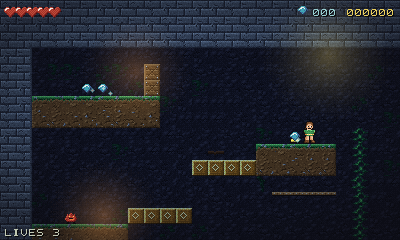
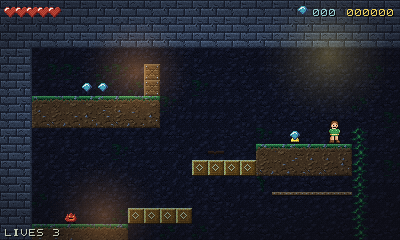
Fix vines that could be climbed but not stepped off
Reported from play a second time: ROOT HOLLOW's upper platform was still
unreachable after the previous fix.

The vine did reach the upper screen. But column 21 was empty at every row,
so the nearest ledge was one column away -- stepping off dropped you into
the gap and the only way across was a blind mid-air jump from a ladder.
tools/reachability.py passed it because it allows jumps up to three tiles
across. Reachable on paper is not the same as playable, and my model did
not know the difference.

Fixed by extending both the ledge (cols 16-21) and the wood platform
(cols 17-21) to sit flush against the vine, so you walk off it. Verified
with no jump pressed: the player leaves the vine at row 7 and lands on the
ledge at tile (20,8), on_floor=true.

Added the rule that was missing: every climbable column must have somewhere
to step off within three tiles of its top. Confirmed it fires on the exact
geometry reported (ladder-with-no-exit at 22,8), and it immediately found
the same defect in two levels I had not touched:

  SKY BRANCH          the vine ended INSIDE the ledge above it, so the
                      climb finished in solid rock
  HEART OF THE GROVE  the vine stopped in mid-air below the upper ledge,
                      and was drawn before it, so it had no exit at all

Both now run through to a standing surface.

iOS bundle regenerated; the content guard confirms the new geometry is in
the .pck. 129 tests / 8489 assertions, 268 integration checks, validate
[…]

diff --git a/tools/reachability.py b/tools/reachability.py
@@ -176,6 +176,34 @@ def reachable(lv, start_xy, start_form="human"):
     return seen
 
 
+def ladder_exits(lv):
+    """Every climbable column needs somewhere to step OFF, next to the ladder
+    itself. A ladder whose only exit is a jump across a gap is reachable on
+    paper and miserable in play -- which is exactly how ROOT HOLLOW's vine
+    shipped: the nearest ledge was one empty column away, so you had to leave
+    the vine in mid-air and cross a gap blind.
+
+    Returns a list of (col, top_row) for ladders with no adjacent exit near the
+    top, where the climb actually ends."""
+    bad = []
+    cols = {}
+    for y in range(lv.h):
+        for x in range(lv.w):
+            if lv.ladder(x, y):
+                cols.setdefault(x, []).append(y)
+    for x, ys in cols.items():
+        top = min(ys)
+        # within three tiles of the top, is there anything to step onto?
+        ok = False
+        for y in range(top, min(top + 3, lv.h)):
+            for dx in (-1, 1):
+                if lv.standable(x + dx, y):
+                    ok = True
+        if not ok:
+            bad.append((x, top))
+    return bad
+
+
 MUST_REACH = {"exit", "boss_exit", "key_yellow", "key_red", "key_cyan",
               "pad_frog", "pad_fish", "pad_bird", "pad_human",
               "switch_a", "switch_b", "door_yellow", "door_red", "door_cyan"}
@@ -203,6 +231,8 @@ def main():
             s = (s[0], s[1] + 1)
         seen = reachable(lv, s)
         problems = []
+        for x, top in ladder_exits(lv):
+            problems.append(("ladder-with-no-exit", (x, top)))
         for e in d["entities"]:
             if e["type"] not in MUST_REACH:
                 continue

diff --git a/tools/build_levels.py b/tools/build_levels.py
@@ -153,8 +153,9 @@ def jungle_2():
     g.ground(2, 14, 6, depth=2)
     g.rect(8, 13, 4, 1, "A")                        # solid while group 1 is ON
     g.rect(12, 10, 4, 1, "a")                       # solid while group 1 is OFF
-    g.ground(16, 9, 5, depth=2)
-    g.platform(17, 12, 4)               # moved off col 22: it was severing the vine
+    g.ground(16, 9, 6, depth=2)          # reaches col 21, flush with the vine
+    g.platform(17, 12, 5)               # cols 17-21: flush with the vine, so you
+                                        # step off it rather than jumping a gap
     g.ground(2, 6, 8, depth=2)
     g.crates(9, 5, 2, vertical=True)
 
@@ -307,7 +308,8 @@ def jungle_4():
 
     # ---- and a soft landing back on solid ground
     g.ground(41, 26, 7)
-    g.vine(44, 9, 17)
+    g.vine(44, 7, 19)                   # through the ledge, so the climb
+                                        # ends level with somewhere to stand
     g.platform(20, 16, 3)
     g.platform(26, 19, 3)
     g.platform(33, 22, 3)
@@ -349,7 +351,6 @@ def jungle_5():
     g.ground(17, 26, 7)
     g.platform(11, 20, 4)
     g.platform(4, 21, 4)
-    g.vine(21, 15, 12)
 
     # ---- screen A: the canopy walk east
     g.ground(1, 14, 7, depth=2)
@@ -370,6 +371,10 @@ def jungle_5():
     g.rect(48, 15, 1, 13, "s")
     g.platform(30, 21, 3)
     g.platform(42, 21, 3)
+
+    # Drawn after the upper ledge on purpose: written before it, the ledge
+    # overwrote the top and the climb dead-ended.
+    g.vine(21, 9, 18)
 
     g.ent("player_spawn", 2, 25)
     g.ent("enemy_shooter", 6, 25)

diff --git a/CHANGELOG.md b/CHANGELOG.md
@@ -492,3 +492,29 @@ a switch you cannot reach.
 
 `tools/validate.sh` now runs the reachability check, so this cannot recur.
 Verified it catches the reported bug by restoring the short vine.
+
+## Fix — vines you could climb but not get off
+
+Reported from play, a second time: the platform in ROOT HOLLOW's upper screen
+was still not reachable after the previous fix.
+
+The vine reached the upper screen, but **column 21 was empty at every row** —
+the nearest ledge sat one column away. Stepping off dropped you into the gap, so
+the only way across was a blind mid-air jump from a ladder. The reachability
+check passed it because it allows jumps of up to three tiles; reachable on paper
+is not the same as playable.
+
+Fixed by extending the ledge and the platform to sit flush against the vine, so
+you simply walk off. Verified with no jump pressed: the player leaves the vine
+and lands on the ledge, `on_floor=true`.
+
+Added a design rule to `tools/reachability.py`: **every climbable column must
+have somewhere to step off within three tiles of its top.** It immediately found
+the same defect in two more levels:
+
+- SKY BRANCH — the vine ended inside the ledge above it, so the climb finished
+  in solid rock.
+- HEART OF THE GROVE — the vine stopped in mid-air below the upper ledge, and
+  was drawn before it, so it had no exit at all.
+
+Both now run through to a standing surface.
